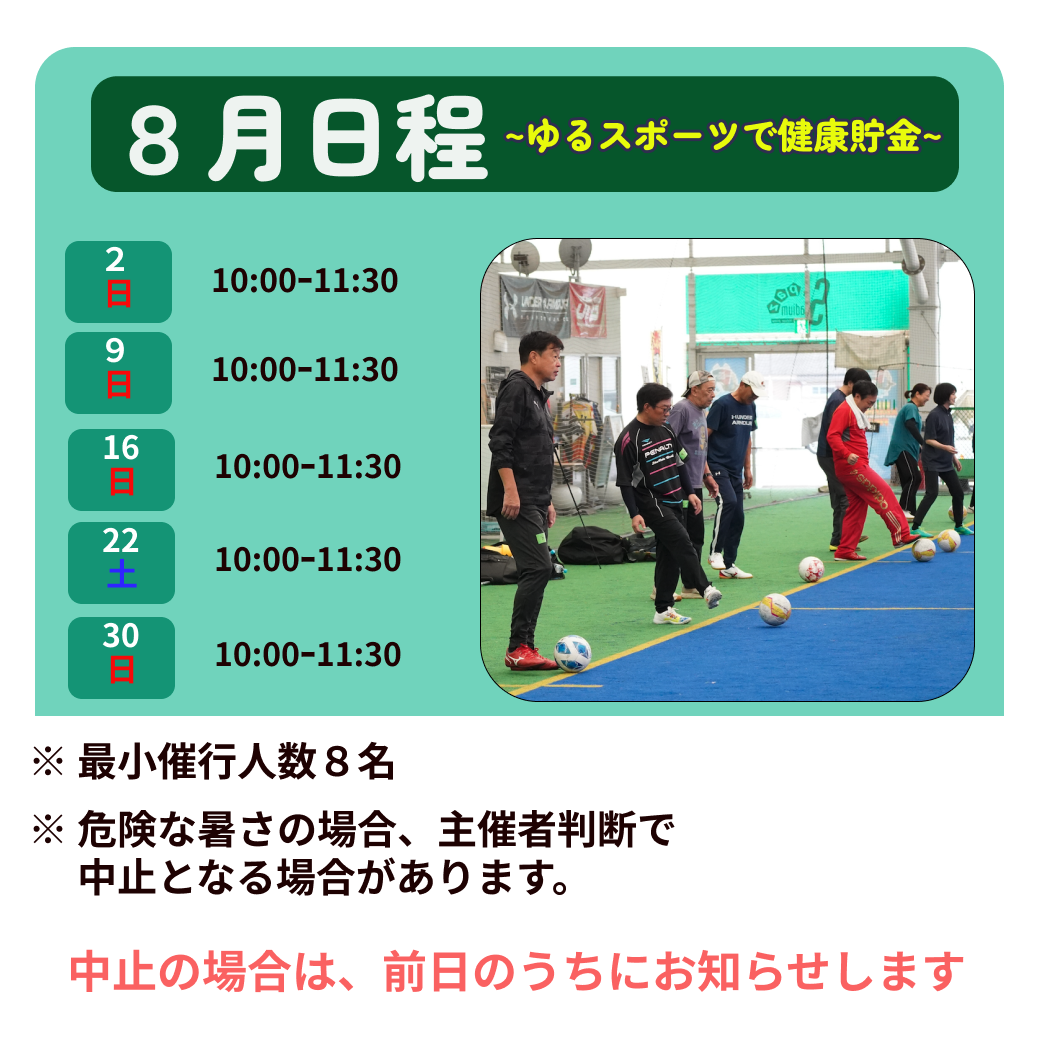
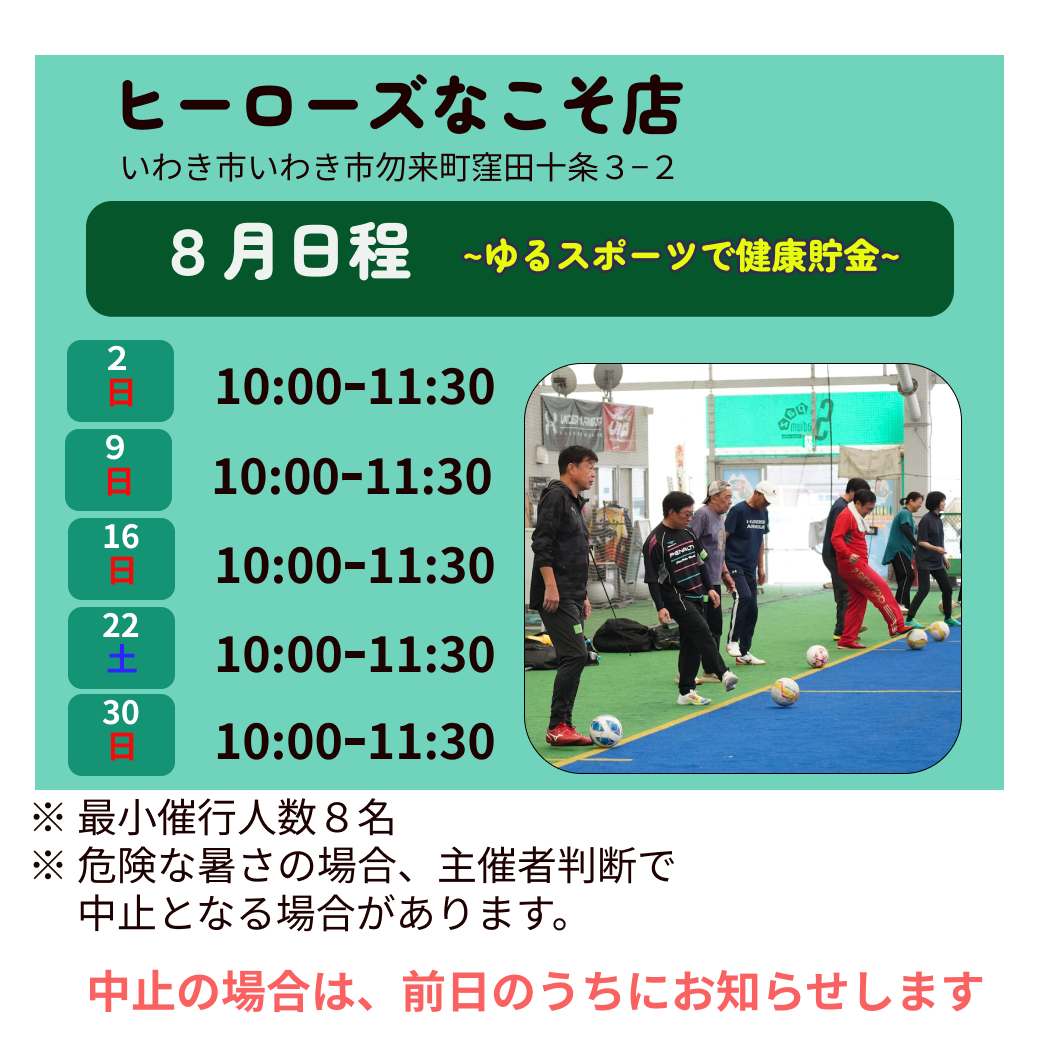
CTAボタンのリンク先を予約サイトに変更
イベント参加ボタンを #events アンカーから外部予約サイト(tol-app.jp)へのリンクに変更。

diff --git a/index.html b/index.html
@@ -54,7 +54,11 @@
           <p>
             走らない、相手に触らない。<br />子どもから高齢者まで、みんなが主役の「歩くサッカー」
           </p>
-          <a href="#events" class="btn-orange-cta">イベントに参加してみる！</a>
+          <a
+            href="https://tol-app.jp/s/heroes-nakoso/x0firc"
+            class="btn-orange-cta"
+            >イベントに参加してみる！</a
+          >
         </div>
 
         <div class="about-block">
@@ -191,7 +195,11 @@
               "
             />
           </div>
-          <a href="#events" class="btn-orange-cta">イベントに参加してみる！</a>
+          <a
+            href="https://tol-app.jp/s/heroes-nakoso/x0firc"
+            class="btn-orange-cta"
+            >イベントに参加してみる！</a
+          >
         </div>
         <br />
 
